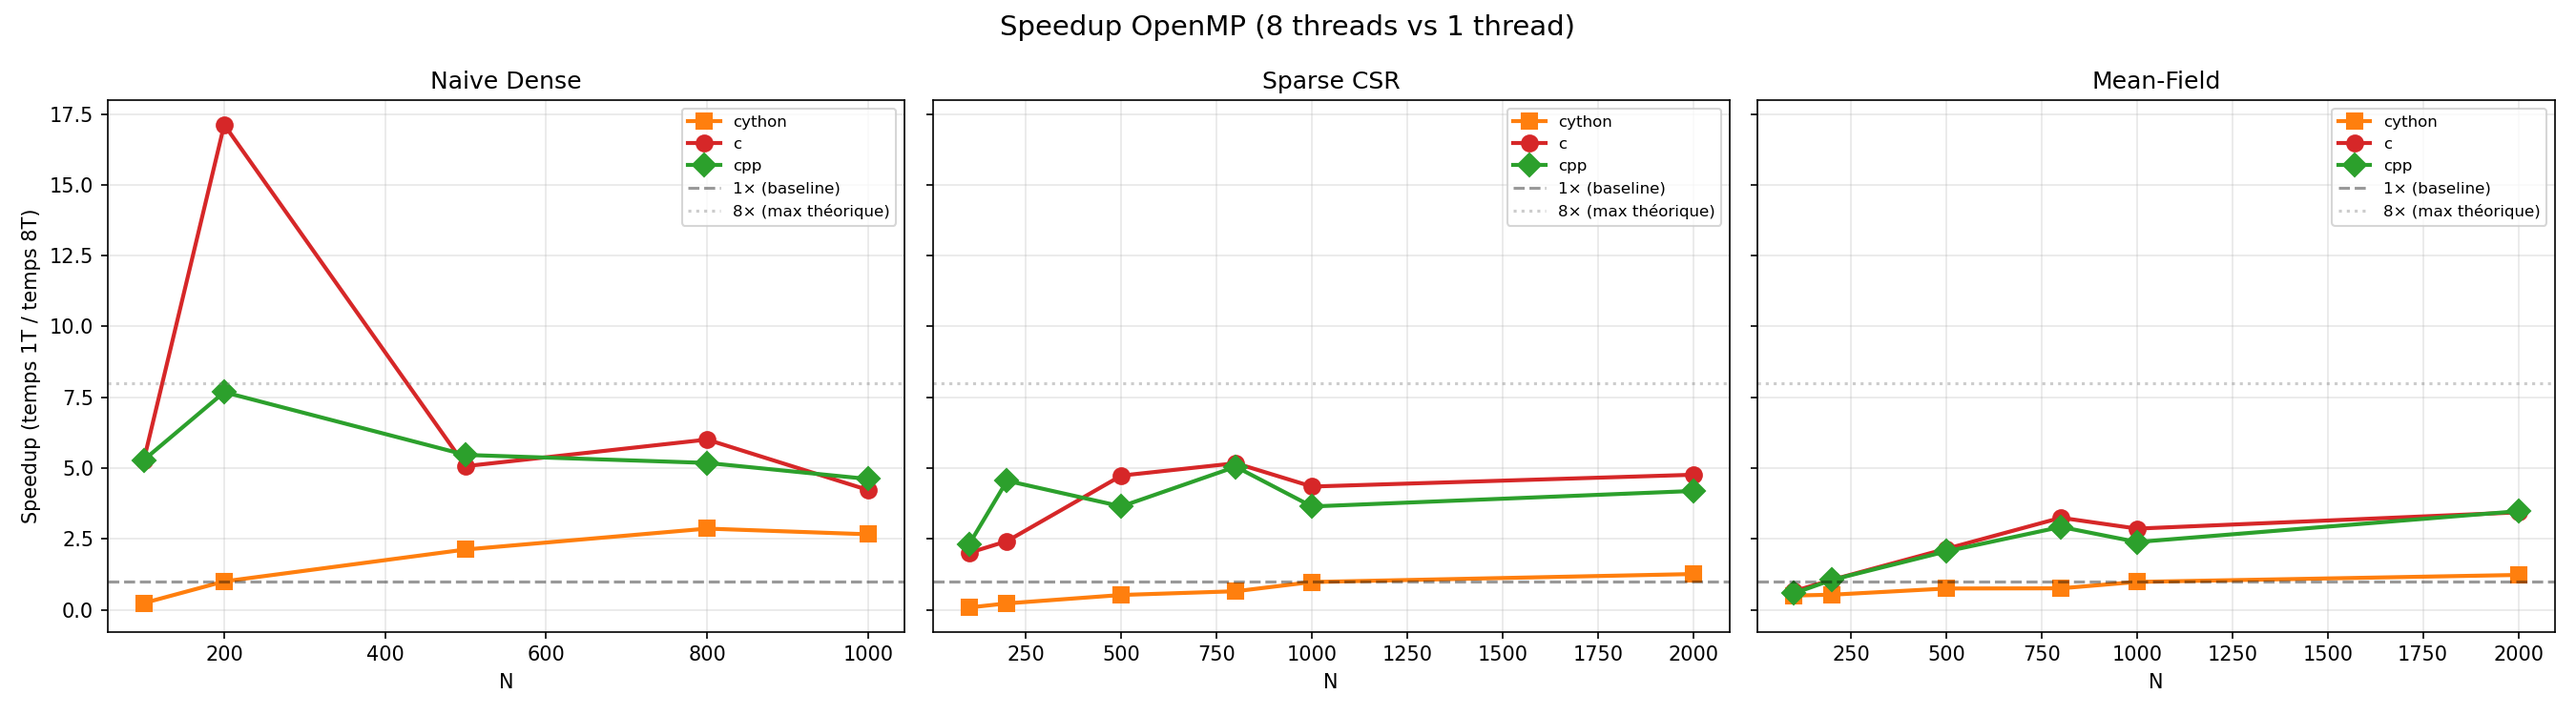
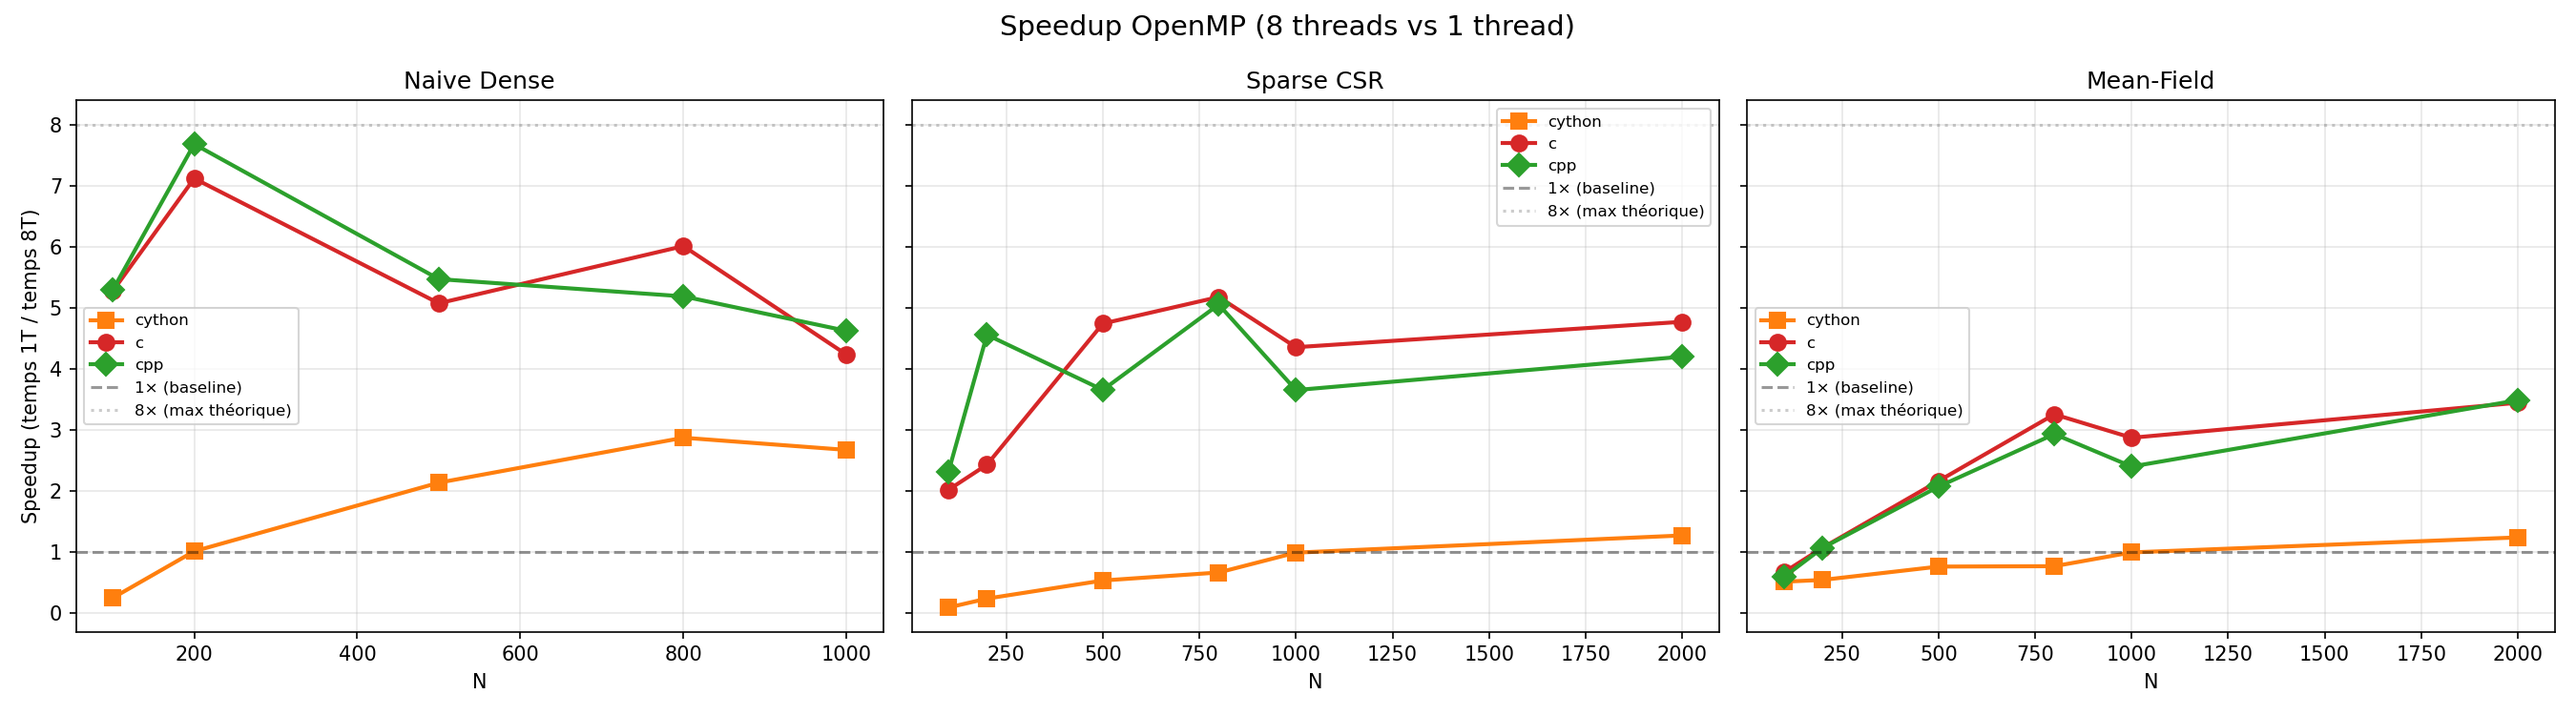
Ajout des benchmarks OpenMP et courbes de gain

diff --git a/examples/omp_threads358/gain_358.py b/examples/omp_threads358/gain_358.py
@@ -1,0 +1,85 @@
+import pandas as pd
+import matplotlib.pyplot as plt
+
+# ============================================================
+# PARAMÈTRES
+# ============================================================
+
+backend = "cpp"
+
+file_1 = "execution_times_naive_1threads.csv"
+file_multi = "execution_times_naive_omp_threads.csv"
+
+# ============================================================
+# LECTURE
+# ============================================================
+
+df1 = pd.read_csv(file_1)
+df_multi = pd.read_csv(file_multi)
+
+# Données C++ avec 1 thread
+t1 = df1[
+    (df1["backend"] == backend) &
+    (df1["n_threads"] == 1)
+][["N", "mean_s"]].copy()
+
+t1 = t1.rename(columns={"mean_s": "T1"})
+
+# Données C++ avec 8 threads
+t8 = df_multi[
+    (df_multi["backend"] == backend) &
+    (df_multi["n_threads"] == 8)
+][["N", "mean_s"]].copy()
+
+t8 = t8.rename(columns={"mean_s": "T8"})
+
+# ============================================================
+# ASSOCIATION DES DONNÉES
+# ============================================================
+
+df = pd.merge(t1, t8, on="N")
+
+# Gain = temps 1 thread / temps 8 threads
+df["gain"] = df["T1"] / df["T8"]
+
+df = df.sort_values("N")
+
+print(df)
+
+# ============================================================
+# TRACÉ
+# ============================================================
+
+plt.figure(figsize=(9, 6))
+
+# Gain mesuré
+plt.plot(
+    df["N"],
+    df["gain"],
+    marker="o",
+    linewidth=2,
+    label="Gain mesuré (1 thread / 8 threads)"
+)
+
+# Gain idéal avec 8 threads
+plt.axhline(
+    y=8,
+    linestyle="--",
+    linewidth=2,
+    label="Gain idéal = 8"
+)
+
+plt.xlabel("Nombre d'oscillateurs N")
+plt.ylabel("Gain en temps d'exécution (T₁ / T₈)")
+
+plt.title("Gain OpenMP — Naive Dense — C++")
+
+plt.grid(True, alpha=0.3)
+plt.legend()
+
+plt.tight_layout()
+
+# Sauvegarde
+plt.savefig("gain_naive_cpp_1_vs_8.png", dpi=300)
+
+plt.show()

diff --git a/examples/plot_8threads.py b/examples/plot_8threads.py
@@ -44,4 +44,4 @@ fig.suptitle("Benchmark à 8 threads : Naive vs Sparse vs Mean-Field", fontsize=
 plt.tight_layout()
 plt.savefig("benchmark_8threads_comparison.png", dpi=150)
 plt.show()
-print("✅ Sauvegardé : benchmark_8threads_comparison.png")
+print("Sauvegardé : benchmark_8threads_comparison.png")

diff --git a/examples/plot_speedup.py b/examples/plot_speedup.py
@@ -45,4 +45,4 @@ fig.suptitle("Speedup OpenMP (8 threads vs 1 thread)", fontsize=14)
 plt.tight_layout()
 plt.savefig("benchmark_speedup_all.png", dpi=150)
 plt.show()
-print("✅ Sauvegardé : benchmark_speedup_all.png")
+print(" Sauvegardé : benchmark_speedup_all.png")
